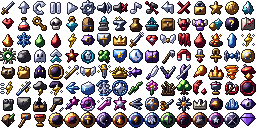
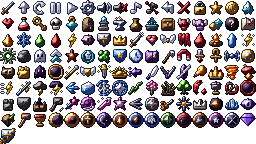
Icono del boton de parry: escudo + espada cruzada + chispa (variante C elegida de 3), solo en el boton de guardia
Claude-Session: https://claude.ai/code/session_011eeWNo3MRZcztybaatA5Az

diff --git a/tools/art_fx_ui/add_parry.py b/tools/art_fx_ui/add_parry.py
@@ -1,0 +1,68 @@
+"""Icono 'parry': escudo actual + espada cruzada / chispa de impacto. Genera 3 variantes (comparacion) y anade la elegida al atlas (casilla 128, nueva fila).
+Uso: python3 add_parry.py [A|B|C]   (por defecto la elegida: CHOSEN)"""
+import sys, json, os
+from icons import *
+CHOSEN = 'C'
+
+def spark(ic, cx, cy, r=2.6):
+    # destello de 4 puntas (impacto)
+    ic.poly([(cx, cy - r), (cx + .7, cy - .7), (cx + r, cy), (cx + .7, cy + .7), (cx, cy + r), (cx - .7, cy + .7), (cx - r, cy), (cx - .7, cy - .7)], 'yel', edge=False)
+    ic.px(cx - .5, cy - .5, RP['white'][4]); ic.px(cx + .5 - 1, cy + .5 - 1, RP['white'][4])
+
+def base_shield(ic, dx=0):
+    ic.poly(shield_shape(8 + dx, 1.8, 5.8, 12.4), 'steel')
+    ic.rect(7 + dx, 3.4, 9 + dx, 12, 'gold', edge=False); ic.rect(4 + dx, 6, 12 + dx, 7.8, 'gold', edge=False)
+
+def var_A(ic):  # espada detras (cruzada), punta arriba-derecha, empunadura abajo-izquierda
+    sword(ic, 0.8, 15.2, 15.2, 0.8, 2.0)
+    base_shield(ic)
+    ic.px(13, 3, RP['white'][4])
+
+def var_B(ic):  # escudo + chispa de impacto en la esquina y grieta de luz
+    base_shield(ic, -0.6)
+    spark(ic, 12.6, 3.6, 3.0)
+    ic.px(10, 5, RP['yel'][3]); ic.px(10, 4, RP['yel'][2])
+
+def var_C(ic):  # espada cruzada detras (mas corta) + chispa en el cruce
+    sword(ic, 1.2, 14.8, 14.8, 1.2, 1.8)
+    base_shield(ic, -0.4)
+    spark(ic, 12.8, 3.4, 2.8)
+
+VARS = {'A': var_A, 'B': var_B, 'C': var_C}
+
+def render_var(k):
+    ic = Ic(); VARS[k](ic); return ic.finish()
+
+def main():
+    A_ = A + '/ui'
+    if len(sys.argv) > 1 and sys.argv[1] == 'cmp':
+        sheet = Image.new('RGBA', (16 * 4 * 6, 16 * 6), (30, 26, 40, 255))
+        # ref (escudo actual) + variantes, a 6x y tamano real x2 abajo
+        ref = Ic(); I['shield'](ref); items = [('ref', ref.finish())] + [(k, render_var(k)) for k in 'ABC']
+        for n, (k, a) in enumerate(items):
+            im = Image.fromarray(to_u8(a), 'RGBA').resize((96, 96), Image.NEAREST)
+            sheet.alpha_composite(im, (n * 96, 0))
+        # tamano real: boton circular r=16 sobre fondo, icono x1 (16px) y x2
+        real = Image.new('RGBA', (4 * 80, 80), (20, 18, 30, 255))
+        d = ImageDraw.Draw(real)
+        for n, (k, a) in enumerate(items):
+            cx = n * 80 + 40; d.ellipse([cx - 31, 8, cx + 31, 70], fill=(70, 80, 100, 255), outline=(255, 224, 112, 255))
+            real.alpha_composite(Image.fromarray(to_u8(a), 'RGBA').resize((32, 32), Image.NEAREST), (cx - 16, 24))
+        out = Image.new('RGBA', (384, 96 + 80)); out.alpha_composite(sheet.crop((0, 0, 384, 96)), (0, 0)); out.alpha_composite(real, (0, 96))
+        ensure(PREV); out.convert('RGB').save(PREV + '/parry_variantes.png'); print('ok'); return
+    k = sys.argv[1] if len(sys.argv) > 1 else CHOSEN
+    jp, ip = A_ + '/icons.json', A_ + '/icons.png'
+    d = json.load(open(jp)); names = d['names']
+    if 'parry' not in names: names.append('parry')
+    idx = names.index('parry')
+    im = Image.open(ip).convert('RGBA')
+    rows = idx // 16 + 1
+    if im.height < rows * 16:
+        n = Image.new('RGBA', (im.width, rows * 16), (0, 0, 0, 0)); n.alpha_composite(im); im = n
+    ox, oy = (idx % 16) * 16, (idx // 16) * 16
+    tile = Image.fromarray(to_u8(render_var(k)), 'RGBA')
+    for y in range(16):
+        for x in range(16): im.putpixel((ox + x, oy + y), (0, 0, 0, 0))
+    im.alpha_composite(tile, (ox, oy))
+    im.save(ip, optimize=True); json.dump(d, open(jp, 'w'), ensure_ascii=False); print('parry en casilla', idx, 'variante', k)
+main()

diff --git a/app/src/main/java/com/julianfarks/roguelike/core/RunScreen.java b/app/src/main/java/com/julianfarks/roguelike/core/RunScreen.java
@@ -1397,7 +1397,7 @@ final class RunScreen extends Screen implements Level.Listener {
         if (i == Input.B_GUARD) {
             boolean on = lv.pl.guarding;
             g.circle(b.cx, b.cy, b.r - 1, Mth.withAlpha(Items.SH_COL[rs.shield], on ? 150 : 60), false);
-            UI.iconC(g, "shield", b.cx, b.cy, 1f, 1f);
+            UI.iconC(g, "parry", b.cx, b.cy, 1f, 1f);
             if (lv.pl.parryT > 0) g.circle(b.cx, b.cy, b.r + 2, 0xFFFFE070, true);
             if (lv.pl.parryFlash > 0) { float k = lv.pl.parryFlash / 0.3f; g.circle(b.cx, b.cy, b.r + 2 + (1f - k) * 6, Mth.withAlpha(0xFFFFF4C0, (int) (255 * k)), true); }
             else if (lv.pl.parryCd > 0.1f && on) { g.clipBegin(b.cx - b.r, b.cy - b.r, 2 * b.r, 2 * b.r * Mth.clamp(lv.pl.parryCd / Items.SH_CD[rs.shield], 0, 1) + 1); g.circle(b.cx, b.cy, b.r - 1, 0x88000000, false); g.clipEnd(); }

diff --git a/app/src/main/java/com/julianfarks/roguelike/core/ControlsEditor.java b/app/src/main/java/com/julianfarks/roguelike/core/ControlsEditor.java
@@ -8,7 +8,7 @@ final class ControlsEditor extends Screen {
     private int dragId = -1, dragB = -1;
     private float offX, offY;
     private Hit minus, plus, reset, done;
-    private static final String[] ICONS = {"", "", "", "jump", "attack", "roll", "", "", "", "", "key", "pause", "potion", "attack", "burn", "shield"};
+    private static final String[] ICONS = {"", "", "", "jump", "attack", "roll", "", "", "", "", "key", "pause", "potion", "attack", "burn", "parry"};
 
     ControlsEditor(Game g, boolean fromRun) { super(g); this.fromRun = fromRun; this.in = g.input; }
 

diff --git a/tools/validate_assets.py b/tools/validate_assets.py
@@ -199,8 +199,8 @@ def ui():
         d = json.load(open(ij))
         im = Image.open(ip)
         names = d['names']
-        if len(names) != 128:
-            err(f'icons.json: {len(names)} nombres != 128')
+        if len(names) != 129:
+            err(f'icons.json: {len(names)} nombres != 129')
         if im.width != 256 or im.height < ((len(names) + 15) // 16) * 16:
             err(f'icons.png: tamano {im.size} no cabe')
         for i, n in enumerate(names):

diff --git a/app/src/main/java/com/julianfarks/roguelike/core/Input.java b/app/src/main/java/com/julianfarks/roguelike/core/Input.java
@@ -109,7 +109,7 @@ public final class Input {
         set(B_POTION, 26, 62, 13, "potion", false);
         set(B_SEC, W - 198, 178, 15, "", false);
         set(B_GREN, W - 184, 140, 15, "", false);
-        set(B_GUARD, W - 168, 252, 16, "shield", true);
+        set(B_GUARD, W - 168, 252, 16, "parry", true);
         btn[B_INTERACT].visible = false;
         btn[B_LEFT].visible = btn[B_RIGHT].visible = btn[B_DOWN].visible = true;
         applyCustom();
